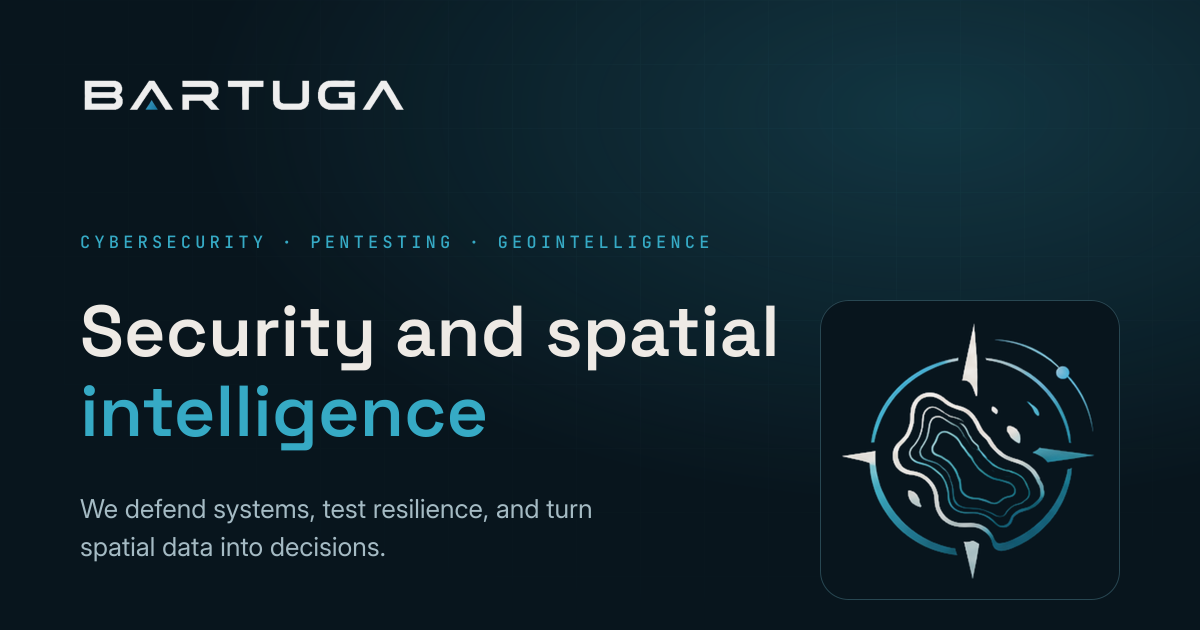
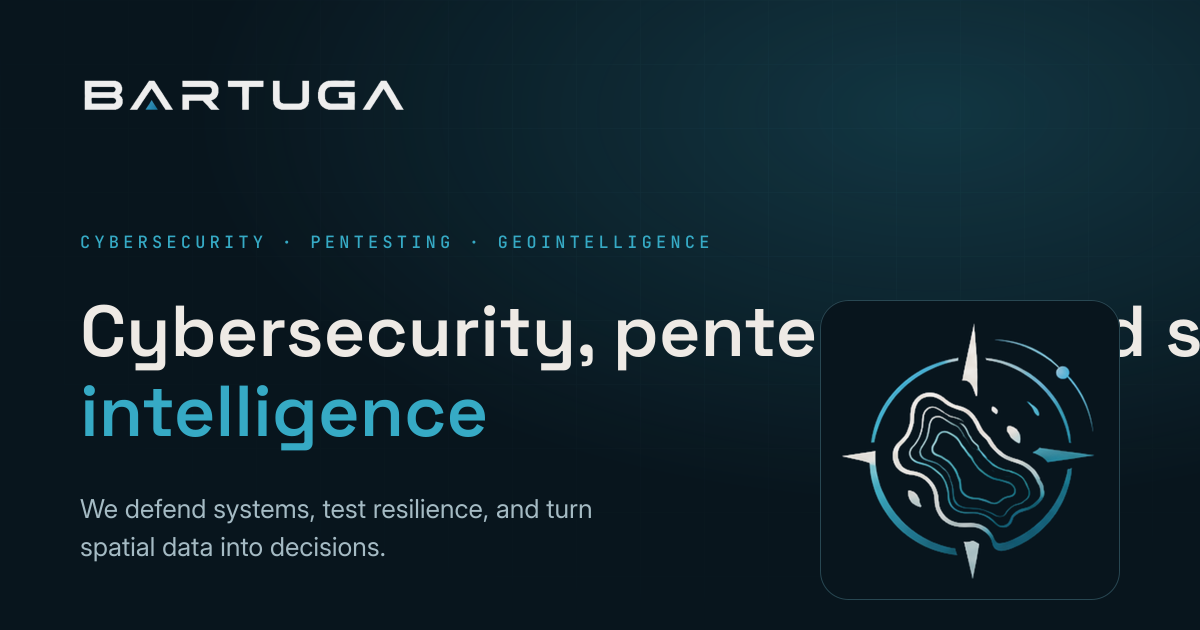
feat: improve SEO with sitemap, structured data, CSP, and 404 page
- Install @astrojs/sitemap and add sitemap-index.xml generation
- Expand JSON-LD to @graph with Organization, WebSite, WebPage, and Service schema
- Enable Astro CSP with hashes for scripts/styles and directives for OSM iframe
- Add 404 page with noindex,follow and no inline styles
- Add CNAME for bartuga.com custom domain
- Add security.txt at /.well-known/security.txt
- Add referrer, robots, and author meta tags
- Add og:locale, og:image:secure_url for social cards
- Shorten meta description to ~150 chars
- Make H1/H2 copy more keyword-rich
- Update site.url and Astro site to https://bartuga.com
- Regenerate OG image with updated hero copy
- Document DNS cutover and security header limitations in .nogit files

Changed region(s): [[0.0617, 0.4825, 0.6783, 0.6032], [0.925, 0.4825, 1.0, 0.573]]

diff --git a/src/data/site.ts b/src/data/site.ts
@@ -60,9 +60,9 @@ const githubUrl = 'https://github.com/bartugalabs';
 
 export const site = {
 	name: 'Bartuga',
-	url: 'https://bartugalabs.github.io',
+	url: 'https://bartuga.com',
 	description:
-		'Bartuga delivers cybersecurity assessments, authorised penetration testing and geospatial intelligence — helping organisations defend their systems and act on spatial data.',
+		'Bartuga provides cybersecurity assessments, penetration testing and geospatial intelligence from Prague for organisations across the EU and worldwide.',
 	email: 'port@bartuga.com',
 	contactHref: 'mailto:port@bartuga.com?subject=Project%20enquiry',
 	github: githubUrl,
@@ -105,7 +105,7 @@ export const site = {
 
 	hero: {
 		eyebrow: 'Cybersecurity · Pentesting · Geointelligence',
-		titleLead: 'Security and ',
+		titleLead: 'Cybersecurity, pentesting and ',
 		titleAccent: 'spatial intelligence',
 		titleTail: '',
 		lead: 'We defend systems, test resilience, and turn spatial data into decisions.',
@@ -139,7 +139,7 @@ export const site = {
 
 	cybersecurity: {
 		eyebrow: '01 — Cybersecurity',
-		title: 'Defence that holds',
+		title: 'Cybersecurity that holds',
 		lead: 'Independent reviews for teams that need to know where they stand, and a practical path to closing the gaps.',
 		services: [
 			{
@@ -167,7 +167,7 @@ export const site = {
 
 	pentesting: {
 		eyebrow: '02 — Pentesting',
-		title: 'Proof over promises',
+		title: 'Pentesting: proof over promises',
 		lead: 'Simulated attacks against your live systems, so you learn what an adversary would find before they do.',
 		steps: [
 			{
@@ -202,7 +202,7 @@ export const site = {
 
 	geointelligence: {
 		eyebrow: '03 — Geointelligence',
-		title: 'Terrain, made legible',
+		title: 'Geointelligence: terrain, made legible',
 		lead: 'We turn scattered location data into answers you can stand behind.',
 		services: [
 			{

diff --git a/src/styles/global.css b/src/styles/global.css
@@ -1491,3 +1491,13 @@ a:hover {
 		transform: none;
 	}
 }
+
+/* 404 page */
+.not-found {
+	text-align: center;
+	padding-block: 6rem 4rem;
+}
+
+.not-found-lead {
+	margin-block-end: 2rem;
+}

diff --git a/README.md b/README.md
@@ -1,6 +1,6 @@
 # Bartuga
 
-Minimal landing page for [bartugalabs.github.io](https://bartugalabs.github.io), built with
+Minimal landing page for [bartuga.com](https://bartuga.com), built with
 [Astro](https://astro.build).
 
 ## Europe hero visual
